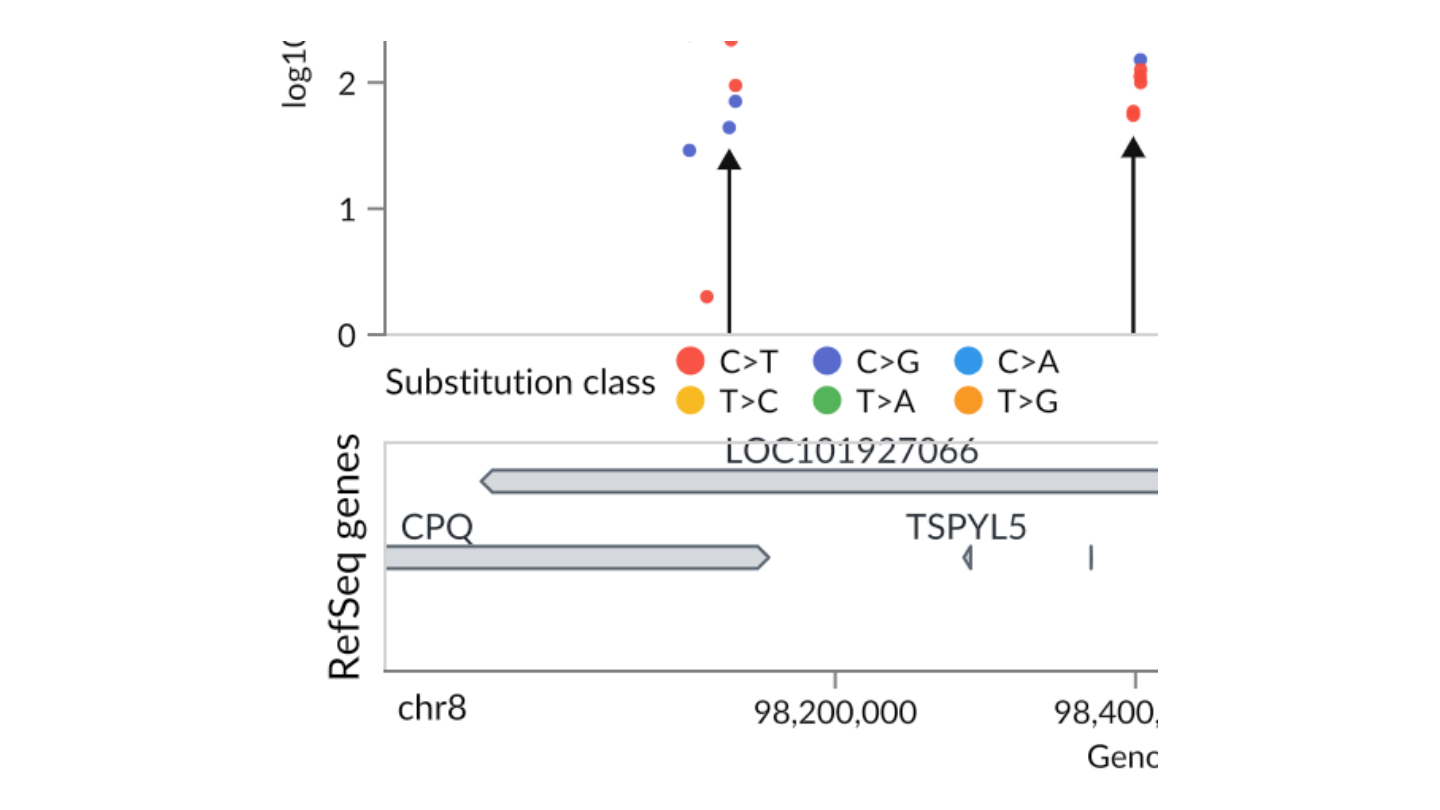
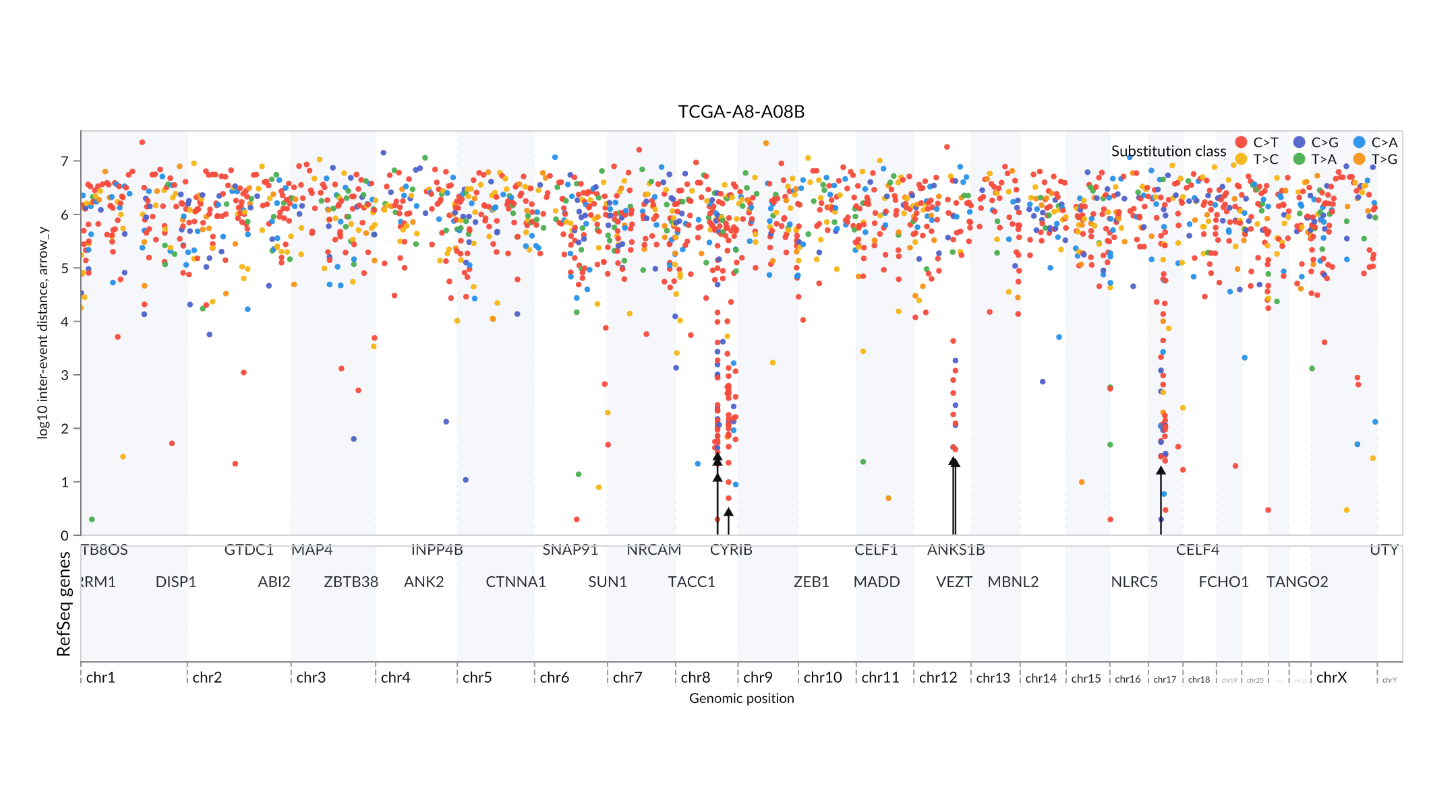
fix(gallery): open genomic plots at whole-genome view

diff --git a/tests/test_docs_gallery.py b/tests/test_docs_gallery.py
@@ -739,6 +739,7 @@ def test_gistic_includes_scores_thresholds_and_lesion_regions() -> None:
     example = gallery.collect_example(EXAMPLES_DIR / "tcga_ov_gistic.py")
 
     assert example.spec["assembly"] == "hg19"
+    assert example.thumbnail_width is None
     assert len(example.spec["vconcat"]) == 3
 
     score_track, lesion_track, gene_track = example.spec["vconcat"]
@@ -769,9 +770,14 @@ def test_gistic_includes_scores_thresholds_and_lesion_regions() -> None:
     ]
     assert gene_track["layer"][1]["transform"][-1]["type"] == "filterScoredLabels"
     assert gene_track["layer"][1]["mark"]["clip"] == "x"
+    assert gene_track["encoding"]["y"]["scale"]["paddingOuter"] == 0.5
     assert "offset" not in gene_track["transform"][0]
     assert len(gene_track["data"]["values"]) == 29_599
     assert example.spec["resolve"]["scale"] == {"x": "shared", "y": "independent"}
+    assert example.spec["scales"]["x"]["domain"] == [
+        {"chrom": "chr1"},
+        {"chrom": "chrY"},
+    ]
     assert "https://data.genomespy.app" not in str(example.spec)
 
 
@@ -780,6 +786,7 @@ def test_rainfall_includes_shared_refseq_annotation_track() -> None:
     example = gallery.collect_example(EXAMPLES_DIR / "rainfall_plot.py")
 
     assert example.spec["assembly"] == "hg19"
+    assert example.thumbnail_width == 980
     assert [view["name"] for view in example.spec["vconcat"]] == [
         "rainfall-track",
         "refseq-genes",
@@ -788,17 +795,26 @@ def test_rainfall_includes_shared_refseq_annotation_track() -> None:
         "scale": {"x": "shared", "y": "independent"},
         "axis": {"x": "shared", "y": "independent"},
     }
+    assert (
+        example.spec["vconcat"][0]["layer"][0]["encoding"]["color"]["legend"]["orient"]
+        == "top-right"
+    )
     gene_track = example.spec["vconcat"][1]
     assert gene_track["title"]["offset"] == 8
     assert gene_track["layer"][0]["mark"]["style"] == "arrow-block"
     assert gene_track["layer"][0]["opacity"]["unitsPerPixel"] == [100000, 40000]
     assert gene_track["layer"][1]["transform"][-1]["type"] == "filterScoredLabels"
     assert gene_track["layer"][1]["mark"]["clip"] == "x"
+    assert gene_track["encoding"]["y"]["scale"]["paddingOuter"] == 0.5
     assert "offset" not in gene_track["transform"][0]
     assert len(gene_track["data"]["values"]) == 29_599
     assert "offset" not in gene_track["layer"][0]["encoding"]["x"]
     rainfall_layers = example.spec["vconcat"][0]["layer"]
     assert all(layer["encoding"]["x"]["offset"] == 1 for layer in rainfall_layers)
+    assert example.spec["scales"]["x"]["domain"] == [
+        {"chrom": "chr1"},
+        {"chrom": "chrY"},
+    ]
 
 
 def test_bam_example_uses_full_alignment_dataflow() -> None:

diff --git a/docs/examples/rainfall_plot.py b/docs/examples/rainfall_plot.py
@@ -16,14 +16,13 @@ META = {
     "category": "Mutation position plots",
     "order": 18,
     "height": 500,
+    "max_width": 980,
+    "thumbnail_width": 980,
 }
 
 CONVERSION_ORDER = ["C>T", "C>G", "C>A", "T>C", "T>A", "T>G"]
 CONVERSION_COLORS = ["#f64b3c", "#4f63c9", "#2891e8", "#f6b617", "#4caf50", "#f7931a"]
-REGION = [
-    {"chrom": "chr8", "pos": 97_900_000},
-    {"chrom": "chr8", "pos": 99_000_000},
-]
+GENOME_DOMAIN = [{"chrom": "chr1"}, {"chrom": "chrY"}]
 
 
 data = brca_rainfall_data()
@@ -50,7 +49,7 @@ axis = (
 mutation_scale = Scale().domain(CONVERSION_ORDER).range(CONVERSION_COLORS)
 mutation_legend = (
     Legend()
-    .orient("bottom")
+    .orient("top-right")
     .direction("horizontal")
     .columns(3)
     .symbolSize(80)
@@ -181,7 +180,7 @@ gene_track = (
             reverse=True,
             align=0,
             paddingInner=0.4,
-            paddingOuter=0.2,
+            paddingOuter=0.5,
             zoom=False,
         )
         .axis(None)
@@ -209,11 +208,11 @@ chart = (
     .properties(
         assembly=assembly,
         width="container",
-        scales=gs.scales(x=gs.Scale(domain=REGION)),
+        scales=gs.scales(x=gs.Scale(domain=GENOME_DOMAIN)),
         axes=gs.axes(x=axis),
         spacing=8,
         description=(
-            "A regional rainfall plot with substitution classes, arrowed "
+            "A genome-wide rainfall plot with substitution classes, arrowed "
             "change-point annotations, and aligned RefSeq gene bodies."
         ),
     )

diff --git a/docs/examples/tcga_ov_gistic.py b/docs/examples/tcga_ov_gistic.py
@@ -15,6 +15,8 @@ META = {
     "max_width": 980,
 }
 
+GENOME_DOMAIN = [{"chrom": "chr1"}, {"chrom": "chrY"}]
+
 event_colors = gs.Scale(
     domain=["Amp", "Del"],
     range=["#e45756", "#4c78a8"],
@@ -205,7 +207,7 @@ gene_track = (
             reverse=True,
             align=0,
             paddingInner=0.4,
-            paddingOuter=0.2,
+            paddingOuter=0.5,
             zoom=False,
         )
         .axis(None)
@@ -233,19 +235,12 @@ chart = (
         assembly="hg19",
         name="gistic-track",
         width="container",
-        scales=gs.scales(
-            x=gs.Scale(
-                domain=[
-                    {"chrom": "chr19", "pos": 400_000},
-                    {"chrom": "chr19", "pos": 2_000_000},
-                ]
-            )
-        ),
+        scales=gs.scales(x=gs.Scale(domain=GENOME_DOMAIN)),
         axes=gs.axes(x=gs.GenomeAxis(title="Genomic position")),
         spacing=8,
         description=(
             "TCGA OV-TP GISTIC2 copy-number scores, recurrent lesions, and "
-            "aligned RefSeq gene bodies around the 19p13.3 deletion peak."
+            "aligned RefSeq gene bodies across the hg19 genome."
         ),
     )
     .resolve_scale(x="shared", y="independent")

diff --git a/tools/render_thumbnails.py b/tools/render_thumbnails.py
@@ -138,9 +138,13 @@ def thumbnail_layout(example: object) -> ThumbnailLayout:
     )
 
 
-def thumbnail_spec(spec: dict[str, object]) -> dict[str, object]:
-    """Return a copy with transient zoom guidance removed from thumbnails."""
+def thumbnail_spec(
+    spec: dict[str, object], *, container_width: int | None = None
+) -> dict[str, object]:
+    """Return a stable copy of a specification for thumbnail rendering."""
     result = copy.deepcopy(spec)
+    if result.get("width") == "container" and container_width is not None:
+        result["width"] = container_width
 
     drop = object()
 
@@ -352,7 +356,11 @@ def main() -> int:
                 stage_width=layout.stage_width,
                 min_stage_height=layout.min_stage_height,
                 bundle=bundle_url,
-                spec=json.dumps(thumbnail_spec(example.spec)),
+                spec=json.dumps(
+                    thumbnail_spec(
+                        example.spec, container_width=example.thumbnail_width
+                    )
+                ),
             )
             page.set_content(html, wait_until="load")
             try:

diff --git a/tests/test_render_thumbnails.py b/tests/test_render_thumbnails.py
@@ -68,6 +68,14 @@ def test_thumbnail_spec_removes_transient_zoom_guidance_without_mutating_input()
     assert renderer.thumbnail_spec(nested) == {"layer": []}
 
 
+def test_thumbnail_spec_resolves_container_width_without_mutating_input() -> None:
+    renderer = _load_renderer()
+    spec = {"width": "container", "mark": "point"}
+
+    assert renderer.thumbnail_spec(spec, container_width=980)["width"] == 980
+    assert spec["width"] == "container"
+
+
 def test_select_examples_defaults_to_all_examples() -> None:
     renderer = _load_renderer()
     examples = [

diff --git a/tools/docs_gallery.py b/tools/docs_gallery.py
@@ -84,6 +84,7 @@ class Example:
     max_width: int | None
     source: str
     spec: dict
+    thumbnail_width: int | None = None
 
 
 def _ensure_src_on_path() -> None:
@@ -142,6 +143,11 @@ def _collect_example(path: Path, module: ModuleType, spec: dict) -> Example:
         ),
         source=path.read_text(encoding="utf-8"),
         spec=spec,
+        thumbnail_width=(
+            int(meta["thumbnail_width"])
+            if meta.get("thumbnail_width") is not None
+            else None
+        ),
     )
 
 
